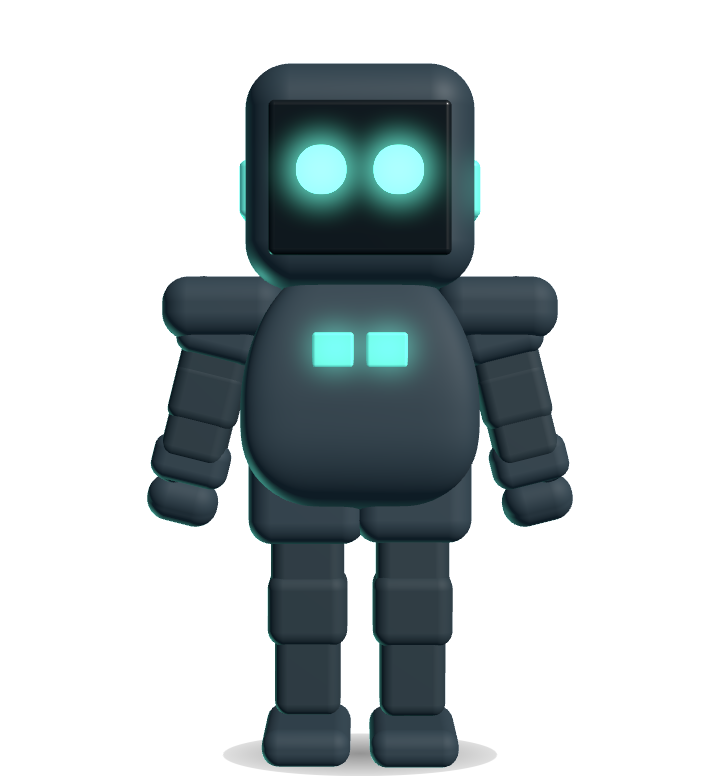
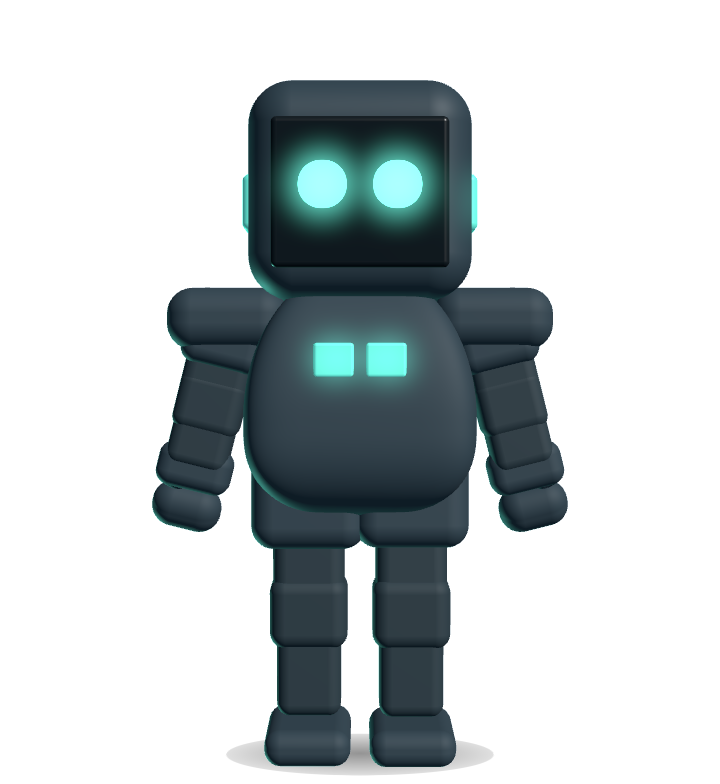
Put the headphones on the outside of the head
The cups were centred at 0.47 of the head's width with the head half a width
across, so all but a sliver of each one was buried inside it and the pet looked
bare with a track playing. They sit on the side of the head now, and the cups,
the strap and its depth are all larger, so they read at the size the pet is
actually drawn.

diff --git a/app/Sources/Squawk/Companion3D/CompanionScene.swift b/app/Sources/Squawk/Companion3D/CompanionScene.swift
@@ -83,12 +83,12 @@ final class CompanionScene {
         /// Headphone measurements, kept here so the framing can see them. The
         /// band arches over the crown, so the tallest point on the pet is not
         /// its head, and framing to the head alone chopped the band off.
-        static let bandRadiusShare: CGFloat = 0.62
+        static let bandRadiusShare: CGFloat = 0.68
         /// Level with the ears, so the strap arches from one cup to the other
         /// and the head hides the rest of the ring. Lifted, it orbited the head
         /// like a halo instead of sitting on it.
         static let bandLiftShare: CGFloat = 0.0
-        static let bandThicknessShare: CGFloat = 0.042
+        static let bandThicknessShare: CGFloat = 0.060
 
         /// The highest point on it, worn or not, so the pet does not change
         /// size the moment music starts.
@@ -538,9 +538,9 @@ final class CompanionScene {
 
         let bandRadius = Size.head * Size.bandRadiusShare
         let bandThickness = Size.head * Size.bandThicknessShare
-        let cupHeight = Size.head * 0.44
-        let cupDepth = Size.head * 0.46
-        let cupThickness = Size.head * 0.21
+        let cupHeight = Size.head * 0.56
+        let cupDepth = Size.head * 0.56
+        let cupThickness = Size.head * 0.28
 
         // The strap: an arch from one cup to the other, not a ring. A torus has
         // no arc, so the whole circle was drawn and the half of it below the
@@ -553,11 +553,11 @@ final class CompanionScene {
                        clockwise: true)
         path.close()
         path.flatness = 0.01
-        let band = SCNShape(path: path, extrusionDepth: Size.head * 0.15)
+        let band = SCNShape(path: path, extrusionDepth: Size.head * 0.20)
         band.chamferRadius = bandThickness * 0.5
         band.materials = [accented()]
         let bandNode = SCNNode(geometry: band)
-        bandNode.position = SCNVector3(0, Size.head * Size.bandLiftShare, -Size.head * 0.07)
+        bandNode.position = SCNVector3(0, Size.head * Size.bandLiftShare, -Size.head * 0.10)
         headphones.addChildNode(bandNode)
 
         for side in [-1, 1] as [CGFloat] {
@@ -569,9 +569,11 @@ final class CompanionScene {
             cup.chamferSegmentCount = 12
             cup.materials = [accented()]
             let cupNode = SCNNode(geometry: cup)
-            // Over the ear and overlapping the head, the way a cup that covers
-            // an ear has to. Parked outside it, they read as tabs stuck on.
-            cupNode.position = SCNVector3(side * Size.head * 0.47, -Size.head * 0.03,
+            // On the side of the head rather than inside it. Centred at 0.47 of
+            // the head's width, with the head itself half a width across, all
+            // but a sliver of the cup was buried in it and you could not see
+            // the headphones at all.
+            cupNode.position = SCNVector3(side * Size.head * 0.56, -Size.head * 0.03,
                                           Size.head * 0.0)
             headphones.addChildNode(cupNode)
 
@@ -581,7 +583,7 @@ final class CompanionScene {
             pad.chamferSegmentCount = 10
             pad.materials = [shell(Palette.line, shine: 0.22)]
             let padNode = SCNNode(geometry: pad)
-            padNode.position = SCNVector3(side * Size.head * 0.41, -Size.head * 0.03,
+            padNode.position = SCNVector3(side * Size.head * 0.47, -Size.head * 0.03,
                                           Size.head * 0.0)
             headphones.addChildNode(padNode)
 
@@ -591,7 +593,7 @@ final class CompanionScene {
             stem.chamferSegmentCount = 8
             stem.materials = [accented()]
             let stemNode = SCNNode(geometry: stem)
-            stemNode.position = SCNVector3(side * Size.head * 0.52, Size.head * 0.26,
+            stemNode.position = SCNVector3(side * Size.head * 0.58, Size.head * 0.28,
                                            Size.head * 0.0)
             headphones.addChildNode(stemNode)
         }
